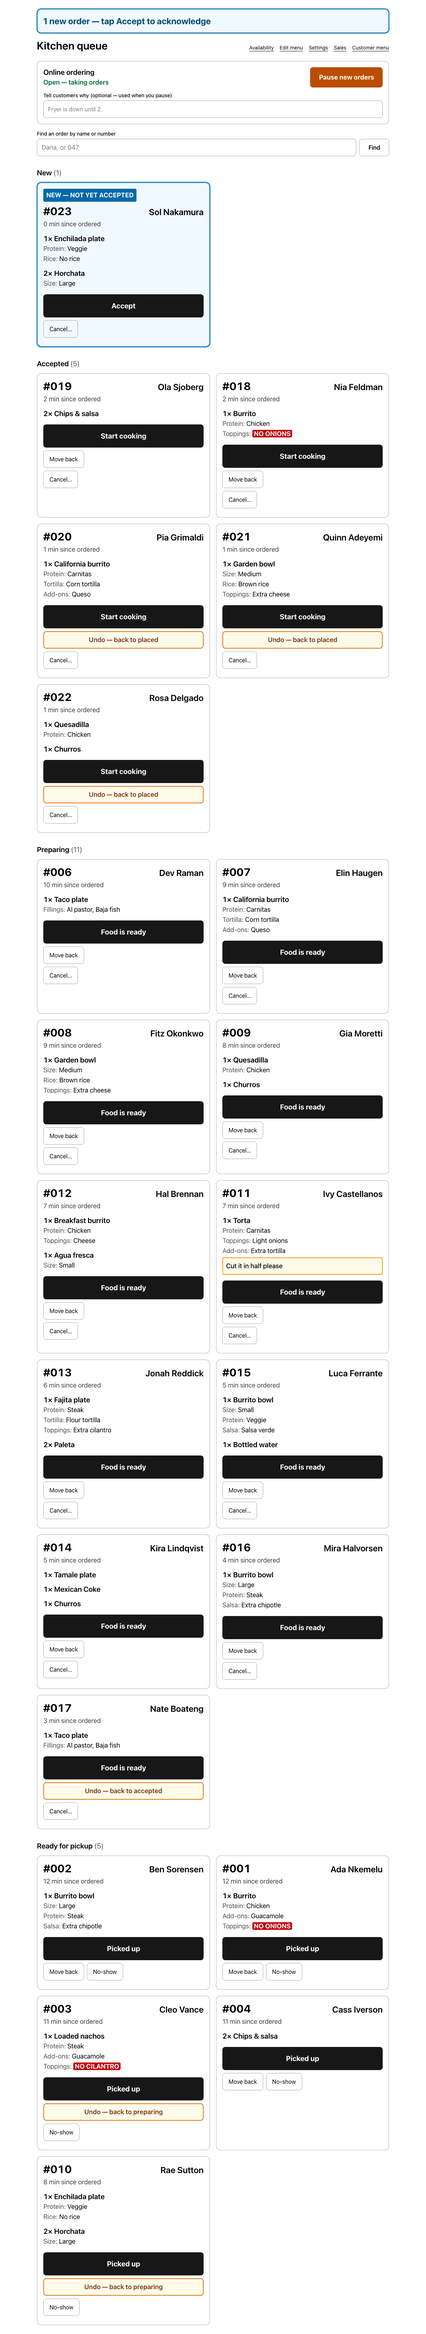
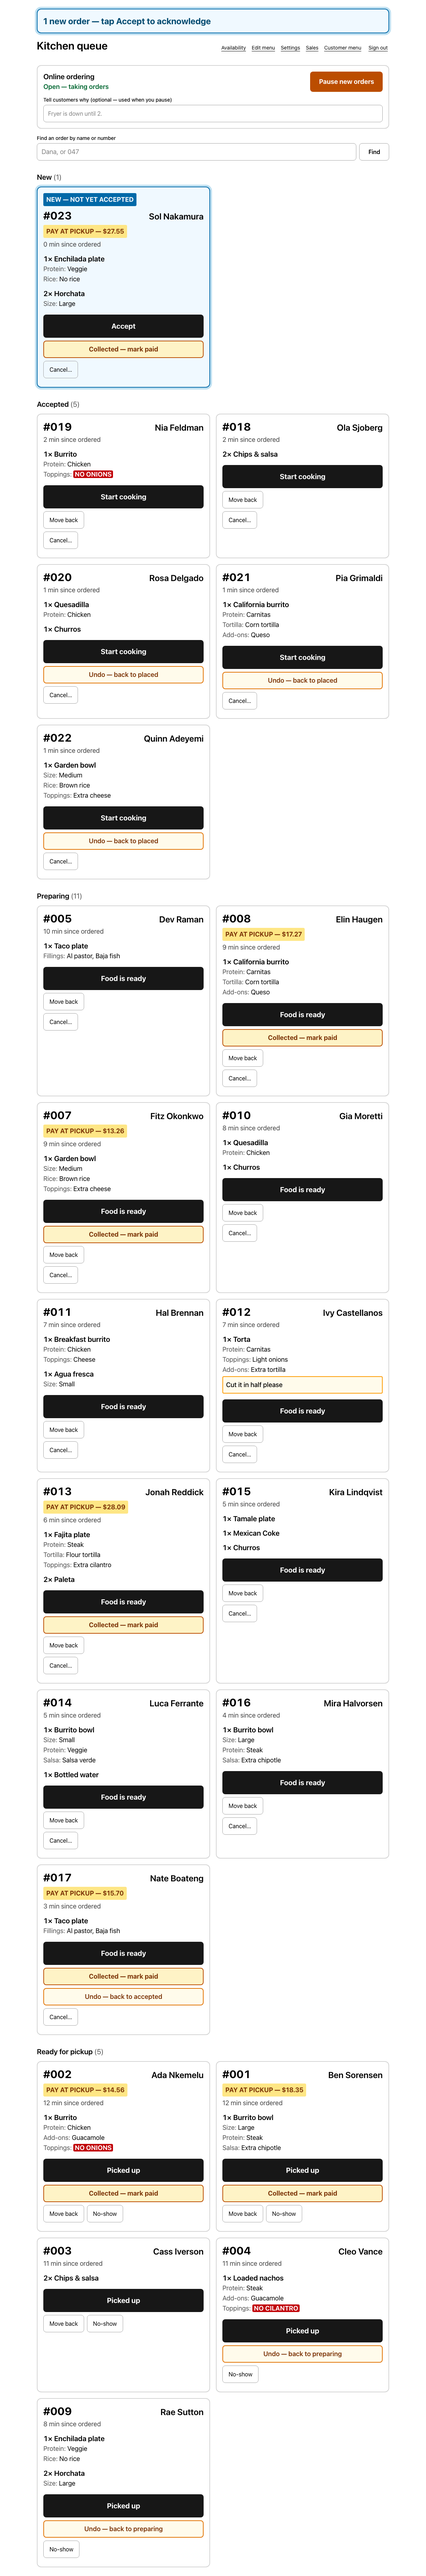
C-040: the screenshots caught up
C-031's eleven captures had gone three items stale — they showed a kitchen
with no lock on the door, no money owed on any ticket, and no way to tell
yesterday's forgotten order from one that is cooking.

Three new captures for the three surfaces that shipped without a picture:
the staff sign-in (C-037, the one shot taken signed out), an unpaid ticket
with its collect control (C-038, placed through the real checkout), and a
queue carrying four leftovers from an earlier day (C-039). All fourteen
regenerated; six of the eleven that already existed came back different,
which is the argument for regenerating rather than only adding.

The write-up's The Screens section gained the three blocks, and the
portfolio page was rebuilt on top of the refreshed images.

diff --git a/apps/web/e2e/screenshots.spec.ts b/apps/web/e2e/screenshots.spec.ts
@@ -1,5 +1,12 @@
 import { expect, test } from '@playwright/test';
-import { card, reseed, seedFinishedRush, seedMidServiceRush } from './fixtures';
+import {
+  backdateQueue,
+  card,
+  placeOrderFor,
+  reseed,
+  seedFinishedRush,
+  seedMidServiceRush,
+} from './fixtures';
 
 // Screenshots for the write-up (C-031).
 //
@@ -140,5 +147,48 @@ test.describe('the operator', () => {
     await page.goto('/kitchen/menu?edit=item:burrito&price=109.50');
     await expect(page.getByText('Was $10.95, will be $109.50.')).toBeVisible();
     await page.screenshot({ path: shot('09-price-confirm'), fullPage: true });
+  });
+});
+
+// C-040: the three surfaces that shipped after C-031 and had no picture.
+
+test.describe('the staff boundary', () => {
+  // The one shot taken signed OUT, for the same reason auth.spec.ts is the one
+  // file that runs that way: the sign-in page is unreachable with the cookie
+  // global setup hands every other context.
+  test.use({ storageState: { cookies: [], origins: [] } });
+
+  test('sign-in', async ({ page }) => {
+    await page.setViewportSize({ width: 760, height: 380 });
+    await page.goto('/kitchen');
+    await expect(page.getByRole('heading', { name: 'Kitchen sign-in' })).toBeVisible();
+    await page.screenshot({ path: shot('12-staff-login'), fullPage: true });
+  });
+});
+
+test.describe('the money and the leftovers', () => {
+  test.beforeEach(() => {
+    reseed();
+  });
+
+  test('an unpaid ticket, close up', async ({ page }) => {
+    // Placed through the real checkout, so the badge is the badge a real
+    // pay-at-pickup order carries — the bag leaving without the money is what
+    // this flag exists to stop.
+    await placeOrderFor(page, 'Robin Vale', { payAtPickup: true });
+    await page.setViewportSize({ width: 900, height: 900 });
+    await page.goto('/kitchen');
+    const ticket = card(page, 'Robin Vale');
+    await expect(ticket.getByText('Pay at pickup — $11.85')).toBeVisible();
+    await ticket.screenshot({ path: shot('13-unpaid-card') });
+  });
+
+  test('yesterday still open', async ({ page }) => {
+    const day = await backdateQueue();
+    await page.setViewportSize({ width: 1180, height: 820 });
+    await page.goto('/kitchen');
+    await expect(page.getByText('4 orders are still open from an earlier day')).toBeVisible();
+    await expect(page.getByText(`Left over from ${day}`).first()).toBeVisible();
+    await page.screenshot({ path: shot('14-leftover') });
   });
 });

diff --git a/docs/portfolio/body.html b/docs/portfolio/body.html
@@ -40,7 +40,7 @@
 
     <figure>
       <div class="shot" style="max-width: 26rem;">
-        <img src="IMG_CARD" alt="A kitchen order card: ticket #001 for Ada Nkemelu, one burrito with chicken and guacamole, and NO ONIONS shown as a red badge.">
+        <img src="IMG_CARD" alt="A kitchen order card: ticket #001 for Ada Nkemelu, one burrito with chicken and guacamole, NO ONIONS shown as a red badge, and a yellow pay-at-pickup badge for $14.56.">
       </div>
       <figcaption>
         <b>One ticket, twelve minutes into the rush.</b> &ldquo;Guacamole&rdquo; is plain text; &ldquo;NO ONIONS&rdquo;

diff --git a/docs/PROGRESS.md b/docs/PROGRESS.md
@@ -2235,3 +2235,43 @@ C-038 committed at 59ece61.
   `SCREENSHOTS=1` when the portfolio page is next rebuilt.
 
 C-039 committed at de31384.
+
+## C-040 — The screenshots caught up
+
+**Built:**
+- Three new captures in `screenshots.spec.ts`: `12-staff-login` (C-037),
+  `13-unpaid-card` (C-038) and `14-leftover` (C-039) — the three surfaces that
+  shipped after C-031 and had no picture anywhere.
+- All fourteen regenerated. Six of the eleven existing ones changed: every
+  kitchen and status shot now carries the C-038 payment badge, which is the
+  point — the old set showed an app that no longer exists.
+- The three new blocks in `docs/WRITEUP.md`'s *The Screens*, and the portfolio
+  page rebuilt (`node docs/portfolio/build.mjs`, 1.14 MB).
+
+**Decided:**
+- **The sign-in shot is the one taken signed out**, in its own `describe` with
+  `test.use({ storageState: { cookies: [], origins: [] } })` — the same opt-out
+  `auth.spec.ts` uses, and for the same reason: global setup hands every other
+  context a cookie that makes the login page unreachable.
+- **The unpaid ticket is placed through the real checkout**, not written to the
+  database. A screenshot of a hand-built row would be a picture of a fixture;
+  this one is the badge a real pay-at-pickup order carries, priced by the
+  server.
+- **No new portfolio section.** The page's seven slots are arguments, not a
+  gallery, and none of the three new items is an argument it makes. The rebuild
+  is what the item owed; the images inside it are now current. The one edit
+  there is `IMG_CARD`'s alt text, which described a card that has since grown a
+  payment badge.
+- **The login shot was re-taken at 760×380.** At 900×700 it was two-thirds
+  white space — an honest picture of an empty page, and a bad one.
+
+**Left behind:**
+- **`backdateQueue()` moves `businessDay`, not `placedAt`,** so the leftover
+  card reads "2 min since ordered" under a badge saying 2020-01-01. True to
+  what the fixture edits, and slightly odd to look at. Ageing the timestamp too
+  would make the picture prettier and the fixture less honest about which
+  column the feature reads.
+- **Nothing checks that the screenshots match the app.** They are regenerated
+  by hand when someone remembers, which is exactly the debt this item paid off
+  — C-031's set went three items stale. A gate step cannot own it: the captures
+  write into `docs/`, and the gate must not touch the working tree.

diff --git a/docs/WRITEUP.md b/docs/WRITEUP.md
@@ -70,6 +70,23 @@ and this is the only screen where getting it wrong costs a remake.
 
 ![A kitchen card with a negation](screenshots/06-kitchen-card.png)
 
+**The same card, with the money still owed.** A customer who chose to pay at
+the counter carries the amount on the ticket and one control to clear it. The
+flag is order state, not a click that happened in this tab — the second screen
+at the counter must not still be showing money owed after someone else
+collects it.
+
+![An unpaid kitchen card](screenshots/13-unpaid-card.png)
+
+**Yesterday, still open.** Four tickets nobody tapped, flagged with the day
+they came from and counted in a banner, so the chore has a size. They are
+flagged, never swept: closing an order out is a transition to a terminal state
+only the person who was there can pick. They no longer chime, and they no
+longer count toward the wait estimate or the auto-pause — which is the bug this
+screen exists to have made visible.
+
+![The kitchen queue with leftovers from an earlier day](screenshots/14-leftover.png)
+
 **The item composer.** Required groups, min/max rules, and intensity levels —
 none / light / regular / extra — with a live price that is explicitly not the
 authority. The server re-prices every line at cart-add and again at placement.
@@ -102,6 +119,13 @@ Since C-026 the value it displays is also checked at save time.
 the door on itself, and the two numbers every estimate is built from.
 
 ![The settings screen](screenshots/08-settings.png)
+
+**The staff sign-in.** One shared passcode in front of every `/kitchen` route,
+the POSTs included — a screen on the wall behind the till does not want a
+per-cook login, it wants the queue to be unreachable from the internet. An
+unset passcode means locked, never open.
+
+![The kitchen sign-in](screenshots/12-staff-login.png)
 
 **The customer's side:** the menu, the cart with the negation carried through,
 and the tokenized status page.

diff --git a/docs/RELEASE_NOTES.md b/docs/RELEASE_NOTES.md
@@ -897,3 +897,19 @@ numbers is worse than one that leaves a gap.
 earlier business day" — the same line the daily order numbers reset on, in the
 restaurant's own timezone. Flagging at closing time instead would flag the
 ticket a cook is still bagging as the door shuts.
+
+## C-040 — Pictures of the app that exists
+
+The write-up's screenshots were taken at C-031 and had gone three items stale:
+they showed a kitchen with no lock on the door, no money owed on any ticket,
+and no way to tell yesterday's forgotten order from one that is cooking.
+
+All fourteen are now captured from the running app against the seeded database
+— the same Playwright run that asserts the behaviour takes the picture of it.
+Six of the eleven that already existed came back different, which is the whole
+argument for regenerating rather than adding: every kitchen card now carries
+the payment badge that shipped two items ago.
+
+Three surfaces are pictured for the first time: the staff sign-in, a ticket
+flagged as still owing money with the one control that clears it, and a queue
+carrying four orders from an earlier day, banner and all.

diff --git a/docs/backlog.md b/docs/backlog.md
@@ -63,6 +63,8 @@ npm run gate    # lint, typecheck, build, e2e, unit — in that order
 
 - [x] **C-039** — The end-of-day sweep *(P1-6)* — `isLeftOver` in `packages/core`, one predicate with three readers: the kitchen flags an order left over from an earlier business day with its date, the new-order chime stops counting it, and the P0-6 throttle and P0-7 estimate stop counting it too. Flagged, never swept — closing one out is a staff transition to the terminal state only they can pick. No migration.
 
+- [x] **C-040** — The screenshots caught up — all fourteen captures regenerated from the running app, three of them new: the staff sign-in (C-037), an unpaid ticket with its collect control (C-038), and a queue carrying leftovers from an earlier day (C-039). Six of the eleven that already existed came back different. The portfolio page rebuilt on top of them.
+
 ## Deferred by decision (not backlog)
 
 **A GitHub organization for the five projects** — deferred 2026-08-27, not
